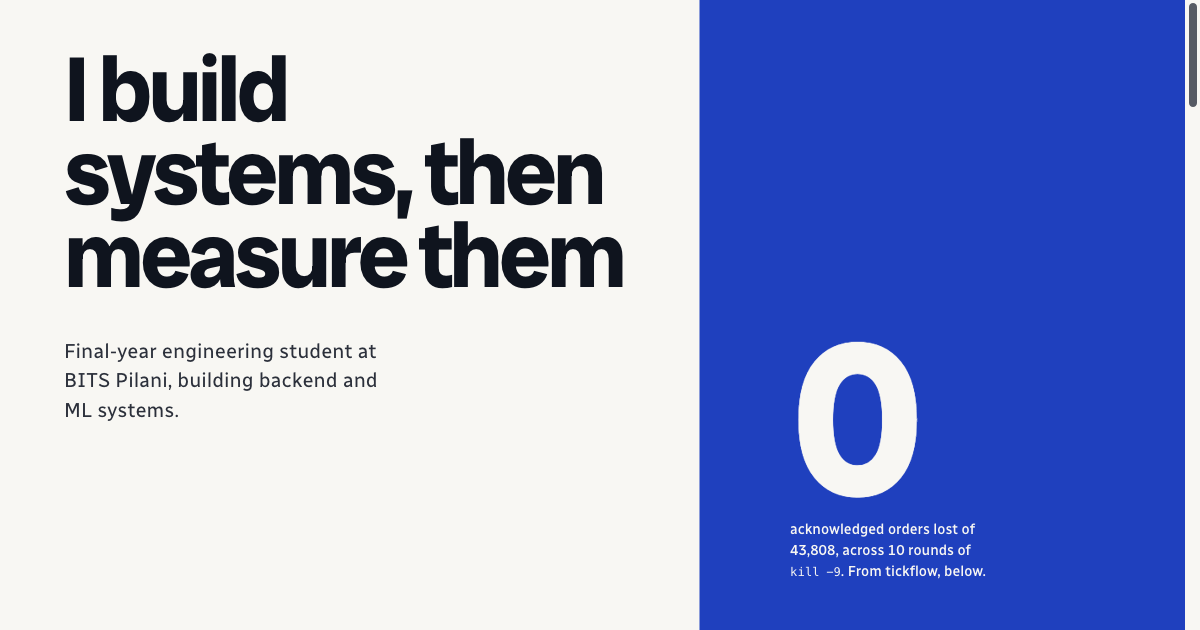
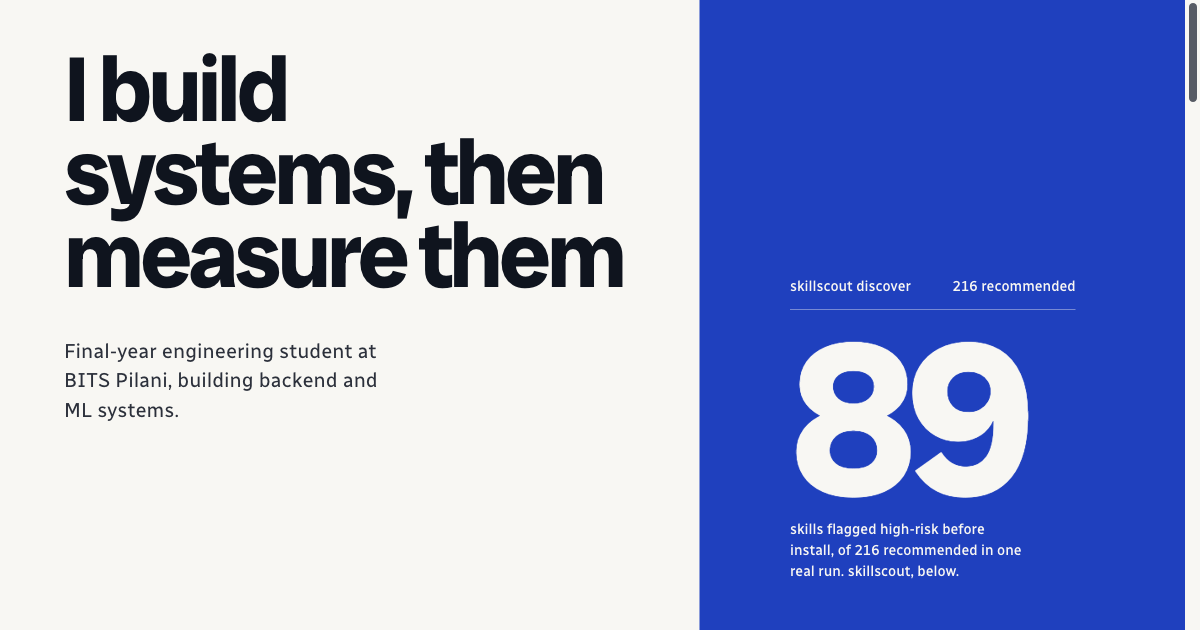
Make skillscout the hero and the first project

diff --git a/index.html b/index.html
@@ -4,9 +4,9 @@
 <meta charset="utf-8">
 <meta name="viewport" content="width=device-width, initial-scale=1">
 <title>Akshit Gupta: systems and ML engineering</title>
-<meta name="description" content="Akshit Gupta, software and ML engineer at BITS Pilani Hyderabad. 8 projects, each with a page of measured results: an order book that survives kill -9, a Kafka SAGA, a crash-safe store, grounded RAG, multilingual LoRA, an RL environment for GST.">
+<meta name="description" content="Akshit Gupta, software and ML engineer at BITS Pilani Hyderabad. 9 projects, each with a page of measured results: a safety scanner for AI agent skills, an order book that survives kill -9, a Kafka SAGA, a crash-safe store, grounded RAG, multilingual LoRA, an RL environment for GST.">
 <meta property="og:title" content="Akshit Gupta">
-<meta property="og:description" content="Software and ML engineer. 8 projects, each with its measurements.">
+<meta property="og:description" content="Software and ML engineer. 9 projects, each with its measurements.">
 <meta property="og:image" content="https://akshit9162.github.io/og.png">
 <meta property="og:url" content="https://akshit9162.github.io/">
 <meta name="theme-color" content="#f8f7f3">
@@ -16,7 +16,7 @@
 <link rel="preconnect" href="https://fonts.gstatic.com" crossorigin>
 <link href="https://fonts.googleapis.com/css2?family=Radio+Canada+Big:wght@400;700&family=Radio+Canada:wght@400;500&display=swap" rel="stylesheet">
 <script>document.documentElement.className = "js"; setTimeout(function () { if (!window.motionReady) document.documentElement.className = "no-js"; }, 2500);</script>
-<link rel="stylesheet" href="style.css?v=5">
+<link rel="stylesheet" href="style.css?v=8">
 </head>
 <body>
 <a class="skip" href="#main">Skip to content</a>
@@ -45,8 +45,8 @@
         </div>
       </div>
       <div class="hero__figure">
-        <p class="replay" aria-hidden="true"><span>Round <span class="num" data-round>10</span> of 10</span><span><span class="num" data-acked>43,808</span> acknowledged</span></p>
-        <p class="hero__zero"><span class="num">0</span><span class="hero__label">acknowledged orders lost of 43,808, across 10 rounds of <code translate="no">kill -9</code>. From tickflow, below.</span></p>
+        <p class="replay" aria-hidden="true"><span>skillscout discover</span><span><span class="num" data-rec>216</span> recommended</span></p>
+        <a class="hero__zero" href="https://akshit9162.github.io/skillscout/"><span class="num" data-flag>89</span><span class="hero__label">skills flagged high-risk before install, of 216 recommended in one real run. skillscout, below.</span></a>
       </div>
     </div>
   </section>
@@ -56,24 +56,25 @@
       <h2 id="work-title">Selected work</h2>
       <p class="sec-lead">Each project has its own page with the measurements and the commands that produced them.</p>
 
+      <h3 class="group">Developer tools</h3>
+      <ol class="index" start="1">
+        <li><a class="row" href="https://akshit9162.github.io/skillscout/" data-preview="https://akshit9162.github.io/skillscout/assets/og.png"><span class="row__n num">01</span><span class="row__name">skillscout</span><span class="row__claim">Finds agent skills on GitHub, scans every file before install and pins each to a commit. One real run: 216 recommended, 89 flagged high-risk.</span><span class="row__stack">Python, zero dependencies, Claude Code plugin</span></a></li>
+      </ol>
+
       <h3 class="group">Systems</h3>
-      <ol class="index">
-        <li><a class="row" href="https://akshit9162.github.io/tickflow/" data-preview="https://akshit9162.github.io/tickflow/og.png"><span class="row__n num">01</span><span class="row__name">tickflow</span><span class="row__claim">An order book that survives <code translate="no">kill -9</code>: write-ahead log, group commit, 476,367 orders/s in the engine.</span><span class="row__stack">C#, .NET 8, WebSocket, SQLite</span></a></li>
-        <li><a class="row" href="https://akshit9162.github.io/Distributed-Order-System/" data-preview="https://akshit9162.github.io/Distributed-Order-System/og.png"><span class="row__n num">02</span><span class="row__name">Distributed Order System</span><span class="row__claim">A SAGA over Kafka, plus an auction service with proxy bidding. 50 buyers for 10 units, none oversold. With Harsh Kokcha.</span><span class="row__stack">Spring Boot, Kafka, Postgres, Redis, React</span></a></li>
-        <li><a class="row" href="https://akshit9162.github.io/logkv/" data-preview="https://akshit9162.github.io/logkv/og.png"><span class="row__n num">03</span><span class="row__name">logkv</span><span class="row__claim">A crash-safe key-value store that puts a number on durability: fsync on every write costs 624× the throughput.</span><span class="row__stack">C++20, CRC32, SIGKILL tests</span></a></li>
+      <ol class="index" start="2">
+        <li><a class="row" href="https://akshit9162.github.io/tickflow/" data-preview="https://akshit9162.github.io/tickflow/og.png"><span class="row__n num">02</span><span class="row__name">tickflow</span><span class="row__claim">An order book that survives <code translate="no">kill -9</code>: write-ahead log, group commit, 476,367 orders/s in the engine.</span><span class="row__stack">C#, .NET 8, WebSocket, SQLite</span></a></li>
+        <li><a class="row" href="https://akshit9162.github.io/Distributed-Order-System/" data-preview="https://akshit9162.github.io/Distributed-Order-System/og.png"><span class="row__n num">03</span><span class="row__name">Distributed Order System</span><span class="row__claim">A SAGA over Kafka, plus an auction service with proxy bidding. 50 buyers for 10 units, none oversold. With Harsh Kokcha.</span><span class="row__stack">Spring Boot, Kafka, Postgres, Redis, React</span></a></li>
+        <li><a class="row" href="https://akshit9162.github.io/logkv/" data-preview="https://akshit9162.github.io/logkv/og.png"><span class="row__n num">04</span><span class="row__name">logkv</span><span class="row__claim">A crash-safe key-value store that puts a number on durability: fsync on every write costs 624× the throughput.</span><span class="row__stack">C++20, CRC32, SIGKILL tests</span></a></li>
       </ol>
 
       <h3 class="group">Machine learning</h3>
-      <ol class="index" start="4">
-        <li><a class="row" href="https://akshit9162.github.io/abstain-or-route/" data-preview="https://akshit9162.github.io/abstain-or-route/og.png"><span class="row__n num">04</span><span class="row__name">Abstain or Route</span><span class="row__claim">Intent routing in 10 languages with LoRA written from scratch. Multilingual training lifts Swahili from 23.8% to 58.7%.</span><span class="row__stack">PyTorch, LoRA, calibration</span></a></li>
-        <li><a class="row" href="https://akshit9162.github.io/Grounded-RAG-Platform/" data-preview="https://akshit9162.github.io/Grounded-RAG-Platform/og.png"><span class="row__n num">05</span><span class="row__name">Grounded RAG</span><span class="row__claim">Hybrid retrieval, a reranker and a guardrail that names unsupported sentences. With Harsh Kokcha.</span><span class="row__stack">FastAPI, Qdrant, BM25, Claude (optional)</span></a></li>
-        <li><a class="row" href="https://akshit9162.github.io/gst-env/" data-preview="https://akshit9162.github.io/gst-env/og.png"><span class="row__n num">06</span><span class="row__name">gst-env</span><span class="row__claim">An RL environment where agents file India’s GST return, graded on 13 fields within ₹1.</span><span class="row__stack">Python, tool-use agents, RL</span></a></li>
-        <li><a class="row" href="https://akshit9162.github.io/prlvs-reproduction/" data-preview="https://akshit9162.github.io/prlvs-reproduction/og.png"><span class="row__n num">07</span><span class="row__name">PRLVS reproduction</span><span class="row__claim">A video-summarization paper that did not reproduce, and the diagnosis of why.</span><span class="row__stack">PyTorch, RL, TVSum</span></a></li>
-        <li><a class="row" href="https://akshit9162.github.io/ofdm-phy-triage/" data-preview="https://akshit9162.github.io/ofdm-phy-triage/og.png"><span class="row__n num">08</span><span class="row__name">OFDM PHY triage</span><span class="row__claim">Simulated wireless test logs in, root cause out: 99.2% of single-cause failures, against 84.9% for hand rules.</span><span class="row__stack">Python, DSP, gradient-boosted trees</span></a></li>
-      </ol>
-      <h3 class="group">Developer tools</h3>
-      <ol class="index" start="9">
-        <li><a class="row" href="https://akshit9162.github.io/skillscout/" data-preview="https://akshit9162.github.io/skillscout/assets/og.png"><span class="row__n num">09</span><span class="row__name">skillscout</span><span class="row__claim">Finds agent skills on GitHub, scans every file before install and pins each to a commit. One real run: 216 recommended, 89 flagged high-risk.</span><span class="row__stack">Python, zero dependencies, Claude Code plugin</span></a></li>
+      <ol class="index" start="5">
+        <li><a class="row" href="https://akshit9162.github.io/abstain-or-route/" data-preview="https://akshit9162.github.io/abstain-or-route/og.png"><span class="row__n num">05</span><span class="row__name">Abstain or Route</span><span class="row__claim">Intent routing in 10 languages with LoRA written from scratch. Multilingual training lifts Swahili from 23.8% to 58.7%.</span><span class="row__stack">PyTorch, LoRA, calibration</span></a></li>
+        <li><a class="row" href="https://akshit9162.github.io/Grounded-RAG-Platform/" data-preview="https://akshit9162.github.io/Grounded-RAG-Platform/og.png"><span class="row__n num">06</span><span class="row__name">Grounded RAG</span><span class="row__claim">Hybrid retrieval, a reranker and a guardrail that names unsupported sentences. With Harsh Kokcha.</span><span class="row__stack">FastAPI, Qdrant, BM25, Claude (optional)</span></a></li>
+        <li><a class="row" href="https://akshit9162.github.io/gst-env/" data-preview="https://akshit9162.github.io/gst-env/og.png"><span class="row__n num">07</span><span class="row__name">gst-env</span><span class="row__claim">An RL environment where agents file India’s GST return, graded on 13 fields within ₹1.</span><span class="row__stack">Python, tool-use agents, RL</span></a></li>
+        <li><a class="row" href="https://akshit9162.github.io/prlvs-reproduction/" data-preview="https://akshit9162.github.io/prlvs-reproduction/og.png"><span class="row__n num">08</span><span class="row__name">PRLVS reproduction</span><span class="row__claim">A video-summarization paper that did not reproduce, and the diagnosis of why.</span><span class="row__stack">PyTorch, RL, TVSum</span></a></li>
+        <li><a class="row" href="https://akshit9162.github.io/ofdm-phy-triage/" data-preview="https://akshit9162.github.io/ofdm-phy-triage/og.png"><span class="row__n num">09</span><span class="row__name">OFDM PHY triage</span><span class="row__claim">Simulated wireless test logs in, root cause out: 99.2% of single-cause failures, against 84.9% for hand rules.</span><span class="row__stack">Python, DSP, gradient-boosted trees</span></a></li>
       </ol>
       <p class="also">Also on GitHub: <a href="https://akshit9162.github.io/Agentic-Video-Understanding-System/">a video understanding system</a> on FastAPI and Celery.</p>
     </div>
@@ -111,6 +112,6 @@
     <a href="https://github.com/akshit9162/akshit9162.github.io">Source for this page</a>
   </div>
 </footer>
-<script src="motion.js" defer></script>
+<script src="motion.js?v=2" defer></script>
 </body>
 </html>

diff --git a/style.css b/style.css
@@ -1,5 +1,5 @@
 /* Hallmark · shape: portfolio index · genre: editorial · theme: Grid (dealt 1/3, seed engineering-portfolio-student-software-17a9·d956ffef·2026-10-29·r0; chosen: an engineer's work read as a catalogue index, one ultramarine field and one red field) · job: hire
- * hero: overprint sheet, the head beside an ultramarine field from column 8, one real figure at its foot · nav: plain bar · footer: plain · imagery: none; type and two fields · signature: the zero from the tickflow crash test, set at poster scale
+ * hero: overprint sheet, the head beside an ultramarine field from column 8, one real figure at its foot · nav: plain bar · footer: plain · imagery: none; type and two fields · signature: the 89 high-risk skills from a real skillscout run, set at poster scale
  * axes: light/grotesk-sans/cool · posture: full-palette · contrast: pass · fold: pass · v2.0.0 */
 @import url("./tokens.css");
 @import url("./base.css");
@@ -111,9 +111,9 @@ code { white-space: nowrap; }
 .btn:active { transform: scale(0.97); transition: transform var(--dur-micro) var(--ease-out); }
 .hero__figure { display: grid; gap: var(--space-lg); align-content: end; }
 .hero__zero { display: grid; gap: var(--space-sm); }
-.replay { display: flex; flex-wrap: wrap; justify-content: space-between; gap: var(--space-xs) var(--space-lg); max-width: 28ch; padding-bottom: var(--space-sm); border-bottom: var(--rule-hair) solid color-mix(in oklab, var(--color-field-ink) 40%, transparent); font-size: var(--text-sm); font-weight: 500; color: var(--color-field-ink); }
-.hero__zero .num { transition: transform var(--dur-short) var(--ease-out); }
-.hero__zero.is-hit .num { transform: translateY(-0.03em) scale(1.015); }
+.replay { display: flex; flex-wrap: wrap; justify-content: space-between; gap: var(--space-xs) var(--space-lg); max-width: 34ch; padding-bottom: var(--space-sm); border-bottom: var(--rule-hair) solid color-mix(in oklab, var(--color-field-ink) 40%, transparent); font-size: var(--text-sm); font-weight: 500; color: var(--color-field-ink); }
+.hero__zero { color: var(--color-field-ink); text-decoration: none; }
+.hero__zero:hover .hero__label { text-decoration: underline; text-underline-offset: 0.28em; }
 
 .js .hero h1, .js .hero .lead, .js .hero .actions, .js .hero__figure { opacity: 0; transform: translateY(0.6rem); }
 .js.is-loaded .hero h1, .js.is-loaded .hero .lead, .js.is-loaded .hero .actions, .js.is-loaded .hero__figure { opacity: 1; transform: none; transition: opacity var(--dur-long) var(--ease-out), transform var(--dur-long) var(--ease-out); }
@@ -134,3 +134,4 @@ code { white-space: nowrap; }
   .js .preview { transition: opacity var(--dur-short) linear; }
   .btn:active { transform: none; }
 }
+.hero__figure .replay .num { font: inherit; letter-spacing: 0; }

diff --git a/motion.js b/motion.js
@@ -16,26 +16,23 @@
     items.forEach(function (li) { io.observe(li); });
   }
 
-  // Replay the tickflow crash test: acknowledged orders climb to the measured total over
-  // 10 rounds while lost stays at 0. Only the totals were recorded, so the climb is even.
-  var TOTAL = 43808, ROUNDS = 10, MS = 4200;
-  var roundEl = document.querySelector('[data-round]'), ackEl = document.querySelector('[data-acked]');
-  var zero = document.querySelector('.hero__zero');
-  var fmt = new Intl.NumberFormat('en-IN');
+  // Replay one real skillscout run: recommendations climb to 216 while the high-risk count
+  // lands on 89. Only the totals were recorded, so both climb evenly.
+  var REC = 216, FLAG = 89, MS = 2600;
+  var recEl = document.querySelector('[data-rec]'), flagEl = document.querySelector('[data-flag]');
   function play() {
-    var start = null, last = 0;
+    var start = null;
     function frame(t) {
       if (start === null) start = t;
-      var k = Math.min(1, (t - start) / MS);
-      var round = Math.min(ROUNDS, Math.floor(k * ROUNDS) + 1);
-      roundEl.textContent = round;
-      ackEl.textContent = fmt.format(Math.round(TOTAL * k));
-      if (round !== last) { last = round; zero.classList.add('is-hit'); setTimeout(function () { zero.classList.remove('is-hit'); }, 160); }
-      if (k < 1) requestAnimationFrame(frame); else { roundEl.textContent = ROUNDS; ackEl.textContent = fmt.format(TOTAL); }
+      var k = Math.min(1, (t - start) / MS), e = 1 - Math.pow(1 - k, 3);
+      recEl.textContent = Math.round(REC * e);
+      flagEl.textContent = Math.round(FLAG * e);
+      if (k < 1) requestAnimationFrame(frame);
     }
+    recEl.textContent = 0; flagEl.textContent = 0;
     requestAnimationFrame(frame);
   }
-  if (roundEl && ackEl && !reduce) setTimeout(play, 500);
+  if (recEl && flagEl && !reduce) setTimeout(play, 400);
 
   // Hover a project row to see its page, toned to ink. The card trails the pointer with a
   // critically damped follow, always from its current position, so it never jumps.
